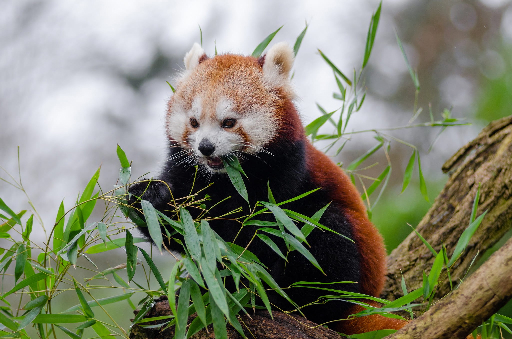
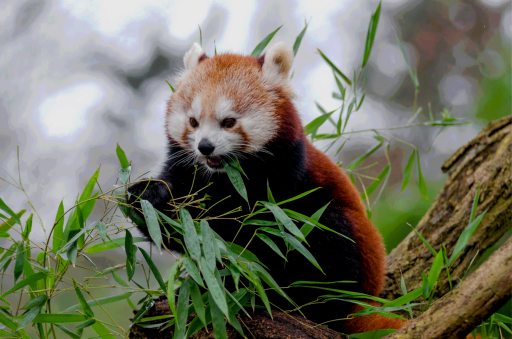
Naive resampling using mitchell netravali.

diff --git a/main.cpp b/main.cpp
@@ -19,15 +19,36 @@ struct Extent2D {
 	uint32_t height{};
 };
 
+float mitchell_netravali(float x, [[maybe_unused]]float r) {
+
+	float s{ 4.0 };
+
+	float abs_x{ std::fabs(x) / s };
+
+	float B = 1.0f / 3.0f;
+	float C = 1.0f / 3.0f;
+
+	if (abs_x <= 1) {
+		return ((12 - 9 * B - 6 * C) * abs_x * abs_x * abs_x +
+			(-18 + 12 * B + 6 * C) * abs_x * abs_x + (6 - 2 * B)) /	6 / s;
+	}
+	else if ((1 <= abs_x) && (abs_x <= 2)) {
+		return ((-B - 6 * C) * abs_x * abs_x * abs_x + (6 * B + 30 * C) * abs_x * abs_x +
+			(-12 * B - 48 * C) * abs_x + (8 * B + 24 * C)) / 6 / s;
+	}
+
+	return 0.0f;
+}
 
 /*		image is 8 bits per channel, 24 bits per pixel		*/
 int main()
 {
+
 	// read image data in
 	int x, y;
 	unsigned char* data{ stbi_load("images/red_panda.jpg", &x, &y, nullptr, STBI_rgb) };
 
-	if (stbi_failure_reason()) {
+	if (!data) {
 		std::cout << stbi_failure_reason();
 	}
 
@@ -50,11 +71,32 @@ int main()
 	Pixel* resampledImageData{ reinterpret_cast<Pixel*>(resampledImage) };
 
 	for (std::size_t i{ 0 }; i < desired_image_extent.height; ++i) { // row
-		std::size_t _x{ static_cast<std::size_t>(i * delta_x) };
+		std::size_t _x{ static_cast<std::size_t>(i * delta_x + delta_x/2) };
 		//std::cout << "_x: " << _x << '\n';
 		for (std::size_t j{ 0 }; j < desired_image_extent.width; ++j) { // column
-			std::size_t _y{ static_cast<std::size_t>(j * delta_y) };
-			resampledImageData[i * desired_image_extent.width + j] = image_data[_x * imageExtent.width + _y];
+			std::size_t _y{ static_cast<std::size_t>(j * delta_y + delta_y/2) };
+
+			//resampledImageData[i * desired_image_extent.width + j] = image_data[_x * imageExtent.width + _y];
+
+			Pixel pixel{};
+			float normFactor{ 0 };
+
+			for (std::size_t i_prime{ _x - 2 }; i_prime <= _x + 2; ++i_prime) {
+				for (std::size_t j_prime{ _y - 2 }; j_prime <= _y + 2; ++j_prime) {
+					if ((i_prime >= 0 && i_prime < imageExtent.height) && (j_prime >= 0 && j_prime <= imageExtent.width)) {
+						float weight{ mitchell_netravali(_x - static_cast<float>(i_prime), 2) * mitchell_netravali(_y - static_cast<float>(j_prime), 2) };
+						normFactor += weight;
+						pixel.r += static_cast<uint8_t>(image_data[i_prime * imageExtent.width + j_prime].r * weight);
+						pixel.g += static_cast<uint8_t>(image_data[i_prime * imageExtent.width + j_prime].g * weight);
+						pixel.b += static_cast<uint8_t>(image_data[i_prime * imageExtent.width + j_prime].b * weight);
+					}
+				}
+			}
+
+			pixel.r = static_cast<uint8_t>(pixel.r / normFactor);
+			pixel.g = static_cast<uint8_t>(pixel.g / normFactor);
+			pixel.b = static_cast<uint8_t>(pixel.b / normFactor);
+			resampledImageData[i * desired_image_extent.width + j] = pixel;
 		}
 	}
 
